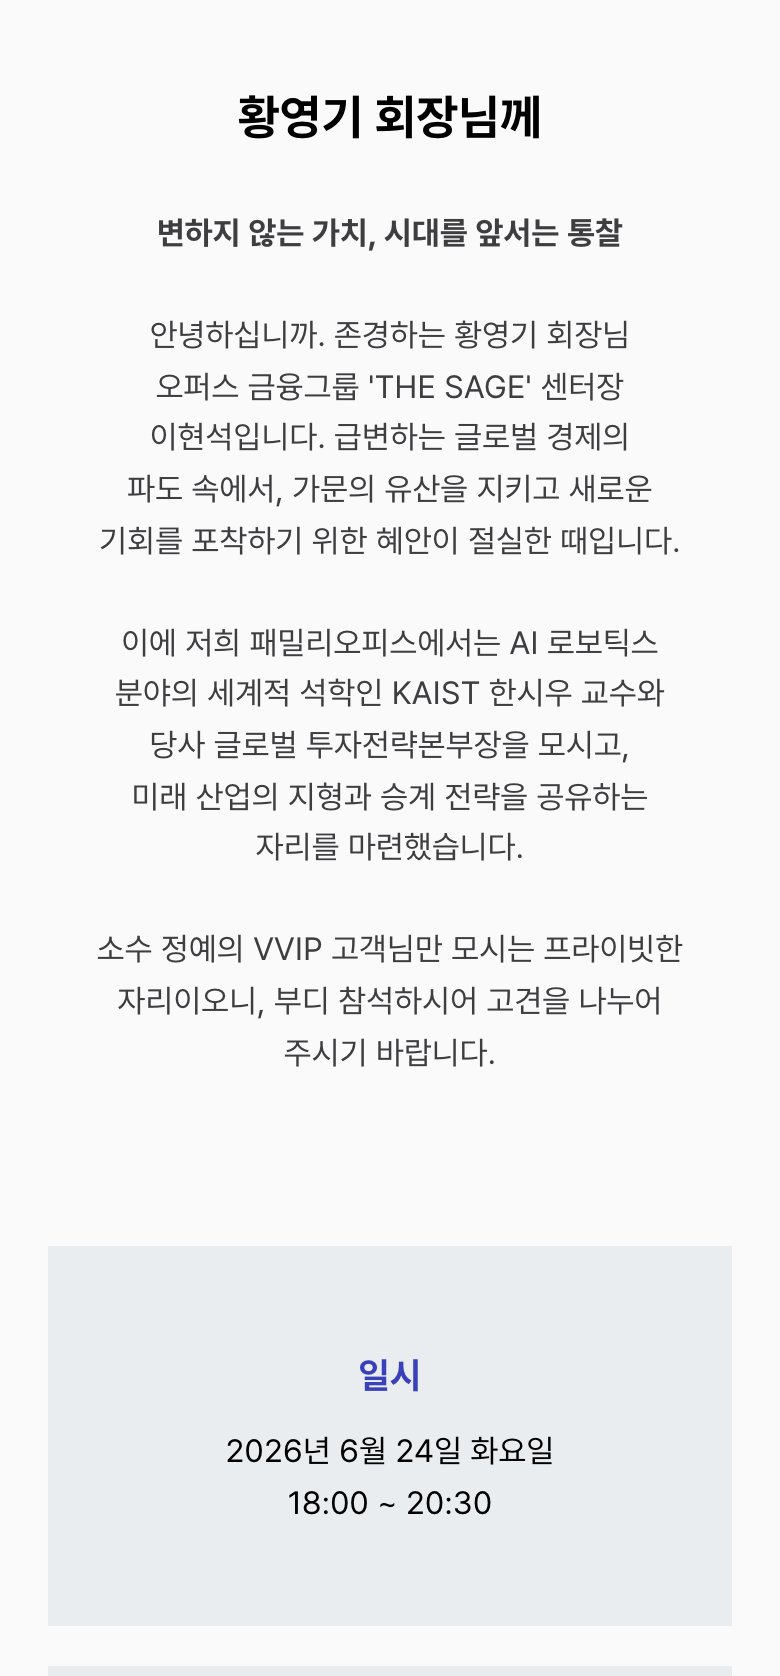
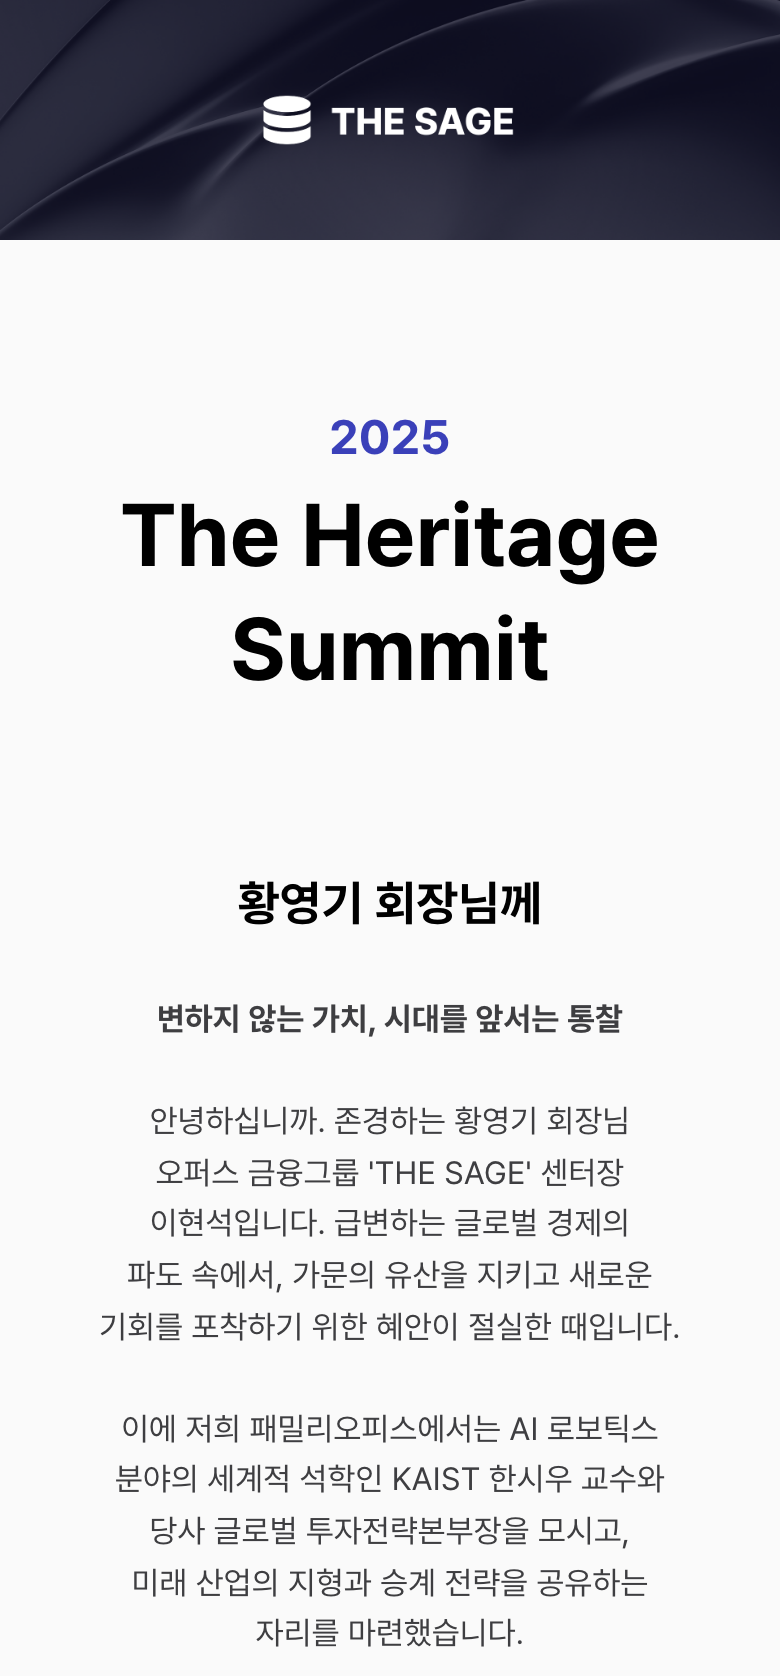
vault backup: 2026-06-19 19:15:04

Changed region(s): [[0.1231, 0.1862, 0.8615, 0.9928], [0.0, 0.0, 1.0, 0.1551]]

diff --git a/블로그/이미지/1. 디자인 가이드/1-3. 이미지 규칙.md b/블로그/이미지/1. 디자인 가이드/1-3. 이미지 규칙.md
@@ -186,14 +186,20 @@ npx playwright install chromium       # 첫 1회만
 node capture-seminar-3sections.mjs https://www.cdbd.in/templates/invitation/seminar/viewer seminar
 ```
 
-**동작**:
+**동작 (2026-06-19 hero 잘림 사고 후 개정)**:
 1. viewer 진입 → 천천히 풀스크롤로 **lazy-load 모두 트리거**
-2. 키워드 매칭으로 의미 섹션 자동 탐지:
-   - `1-hero`: "회장님께", "Welcome", "초대합니다" → 인사말
-   - `2-rsvp`: "참석", "RSVP", "정보 등록" → RSVP 폼
-   - `3-contact`: "문의", "연락", "contact" → 연락처
+2. **`SECTION_HINTS` 분기 처리**:
+   - `1-hero`: **`forceY: 0` 강제** ⭐ — 키워드 매칭 안 함, 페이지 진짜 상단부터 잡음 (로고·타이틀 잘림 방지)
+   - `2-rsvp`: zone-restricted 키워드 검색 (zone 30~75%) — "참석 및 사전", "정보 등록", "RSVP" 등
+   - `3-contact`: zone-restricted 키워드 검색 (zone 65~100%) — "문의처", "문의하기", "전화" 등
 3. 각 섹션을 **A 유형 SCREEN aspect (390×838 = 0.4654)** 로 캡처
 4. `screenshots/blog-image-A/` 에 3장 + 풀페이지 + 메타 저장
+
+**🔴 hero `forceY: 0` 룰 (2026-06-19 추가) — 다른 viewer에도 일반 적용**
+- hero는 **항상 페이지 진짜 상단 (y=0)** 에서 캡처
+- 키워드("회장님께", "Welcome" 등)는 종종 본문 중간에 매칭되어 **로고·타이틀이 잘림** (Heritage Summit 사고: 키워드 매칭 y=393 → THE SAGE 로고 + "2025 The Heritage Summit" 잘림)
+- 모든 CdBd viewer의 hero는 페이지 상단에 위치 → `forceY: 0`이 안전한 일반 룰
+- 다른 viewer 캡처 스크립트 만들 때도 동일 룰 적용 (`{ name: '1-hero', forceY: 0 }`)
 
 **기존 단순 캡처 도구 (Fallback용)**
 - **thum.io fullpage** — lazy-load 누락 발생 (TRINTAS·seminar 둘 다 hero만 잡힘)
@@ -361,3 +367,4 @@ node capture-seminar-3sections.mjs https://www.cdbd.in/templates/invitation/semi
 | 2026-06-19 | **§4 자산 출처 추가** — CdBd viewer 캡처(§4.1) · Thiings 3D 아이콘 다운로드(§4.2) · 컴포넌트화 원칙(§4.3) 정리. 썸네일 [[블로그/썸네일/1. 디자인 가이드/1-3. 이미지/1-3-2. 이미지 출처]] 카탈로그를 1차 참고하고 imageHash 공유 원칙 채택. 기존 §4 Claude 자동화 매뉴얼은 §5로 번호 이동. |
 | 2026-06-19 | **§4.1 절대 원칙 추가 — "사람이 보는 것처럼 분석 후 섹션 분할 캡처"** ⭐ — 멀티 폰 유형(A·C·F·G)은 같은 캡처를 복붙하지 않고, viewer를 사람처럼 읽어서 의미 섹션 N개를 식별 후 각 폰에 다른 섹션을 fill해야 함. 모범 사례(`1:12129` Heritage Summit: 인사말 / RSVP / 문의처) + Fallback(distinct 섹션 없는 경우 vertical scroll position) + 캡처 인프라 한계(thum.io·Microlink의 lazy-load 미스) 명시. 캡처 파이프라인 표에 "사람처럼 구조 분석" 단계를 명시 추가. [[1-2-1. 레이아웃 규칙]] §3.1 캡처 자산 표에서 본 룰을 참조. |
 | 2026-06-19 | **Playwright 캡처 인프라 구축** ⭐ — thum.io·Microlink로 CdBd viewer의 RSVP·연락처 등 lazy-load 섹션 캡처 불가능 (seminar·TRINTAS 둘 다 실증). 해결: `자동화 도구/cdbd-capture/capture-seminar-3sections.mjs` 작성. 풀스크롤로 lazy-load 트리거 + 키워드 매칭(`회장님께`·`참석`·`문의` 등)으로 의미 섹션 자동 탐지 + A 유형 SCREEN aspect (390×838) 정확 매칭 캡처. 사용자는 `npm install && node capture-...` 한 번이면 3 섹션 PNG 자동 생성. 이전 단순 캡처 도구(thum.io·Microlink)는 Fallback으로 격하. [[자동화 도구/cdbd-capture/README.md]] 문서 갱신. |
+| 2026-06-19 | **Playwright 스크립트 2단계 개선 + hero forceY 룰 정착** — 첫 실행에서 키워드 매칭 버그 발견 (3 섹션 모두 y=393에 매칭 — hero 텍스트 안에 "참석"·"문의" 단어 다 들어있음). 1차 fix: **zone-restricted 검색** (페이지 3등분해서 각 zone 안에서만 키워드 검색). 2차 fix: **hero `forceY: 0` 강제** ⭐ — 키워드 매칭으로 y=393에서 잡혀 THE SAGE 로고 + "2025 The Heritage Summit" 타이틀이 잘리는 사고 발생 → hero는 무조건 페이지 진짜 상단 (y=0)부터 캡처하도록 변경. 다른 viewer에도 적용되는 일반 룰로 §4.1에 명시. |
